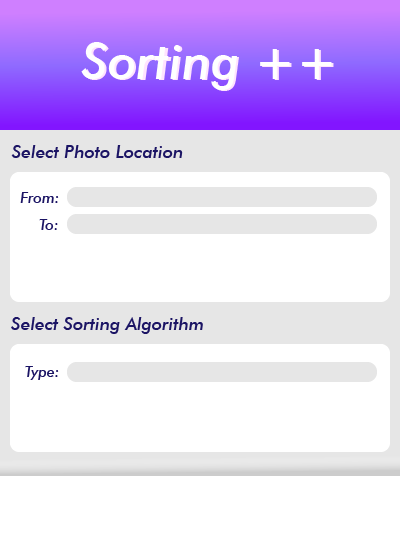
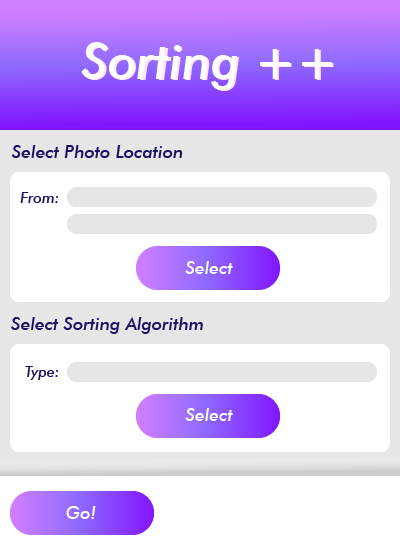
Buttons now recognised when pressed.

diff --git a/photo_sorter.py b/photo_sorter.py
@@ -24,8 +24,11 @@ WINDOW = window.Window(*WINDOW_SIZE, TITLE)
 resource.path = ["resources"]
 resource.reindex()
 
-
-IMAGE_TYPES = ['png', 'jpg', 'tiff','jpeg']
+# Constant declaration.
+IMAGE_TYPES   = ['png', 'jpg', 'tiff','jpeg']
+SEL_BTN_1_POS = (WINDOW_SIZE[0] // 2, 283)
+SEL_BTN_2_POS = (WINDOW_SIZE[0] // 2, 133)
+GO_BTN_POS    = (85, 38)
 
 
 def get_file_path():
@@ -102,10 +105,47 @@ def sort_name(image_list):
 
 
 def draw():
-    batch = graphics.Batch() # Groups all images / shapes to draw at once.
-    background = sprite.Sprite(img=resource.image("background.png"), x=0, y=0, batch=batch)
-    batch.draw()
+    """Initialises the background and the buttons to draw to the window every frame.
+    """
+    background = sprite.Sprite(img=resource.image("background.png"), x=0, y=0)
+    background.draw()
 
+
+def center_image(image):
+    """Centers the anchor points of an image.
+
+    Args:
+        image (image): The image object.
+    """
+    image.anchor_x = image.width // 2
+    image.anchor_y = image.height // 2
+
+
+def check_button_click(b_x, b_y, m_x, m_y):
+    """Checks whether a button was pressed on click.
+
+    Args:
+        b_x (int): x-position of button.
+        b_y (int): y-position of button.
+        m_x (int): x-position of mouse.
+        m_y (int): y-position of mouse.
+    """
+    if b_x - 72 < m_x < b_x + 72:
+        if b_y - 22 < m_y < b_y + 22:
+            return True
+    return False
+
+
+@WINDOW.event
+def on_mouse_press(x, y, button, modifiers):
+    """Called when mouse clicks.
+    """
+    if check_button_click(*SEL_BTN_1_POS, x, y):
+        print("Select button 1 clicked!!")
+    elif check_button_click(*SEL_BTN_2_POS, x, y):
+        print("Select button 2 clicked!")
+    elif check_button_click(*GO_BTN_POS, x, y):
+        print("Go button clicked!")
 
 
 @WINDOW.event
